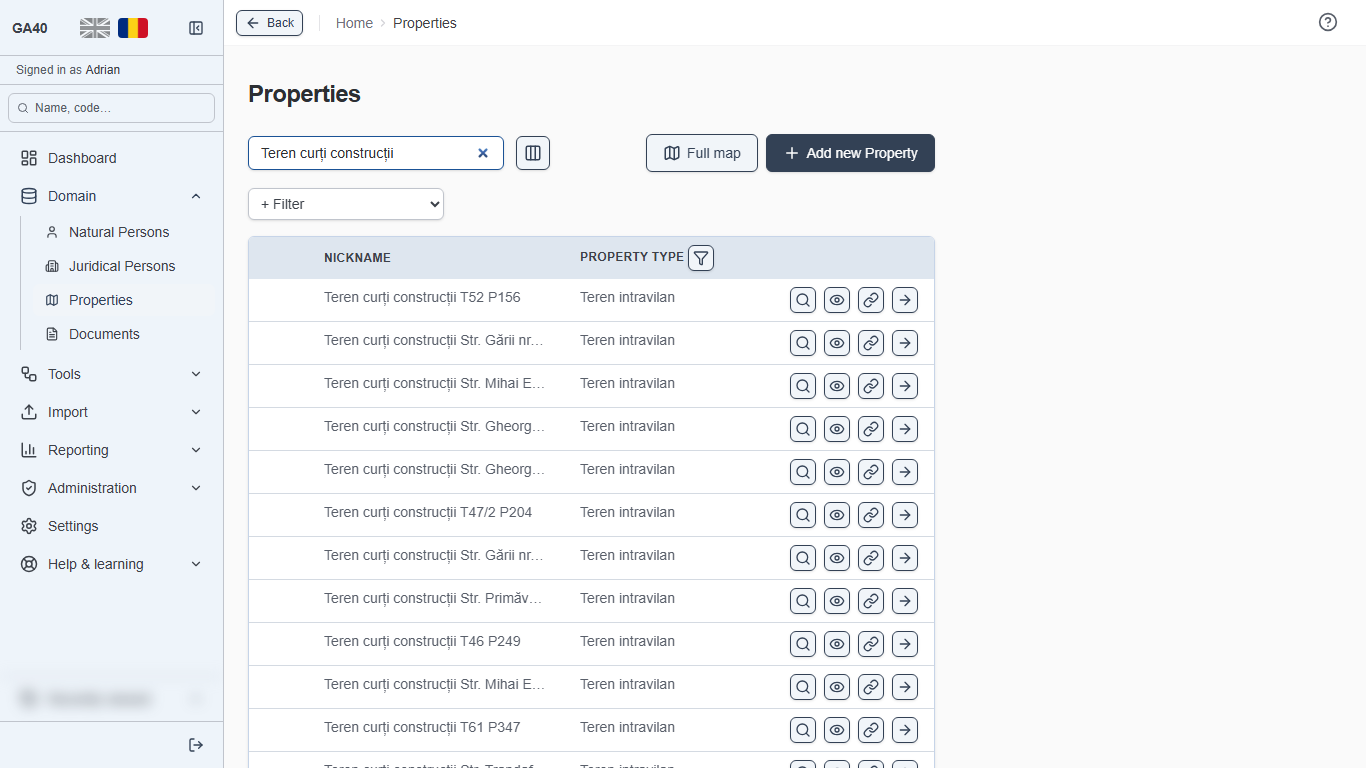
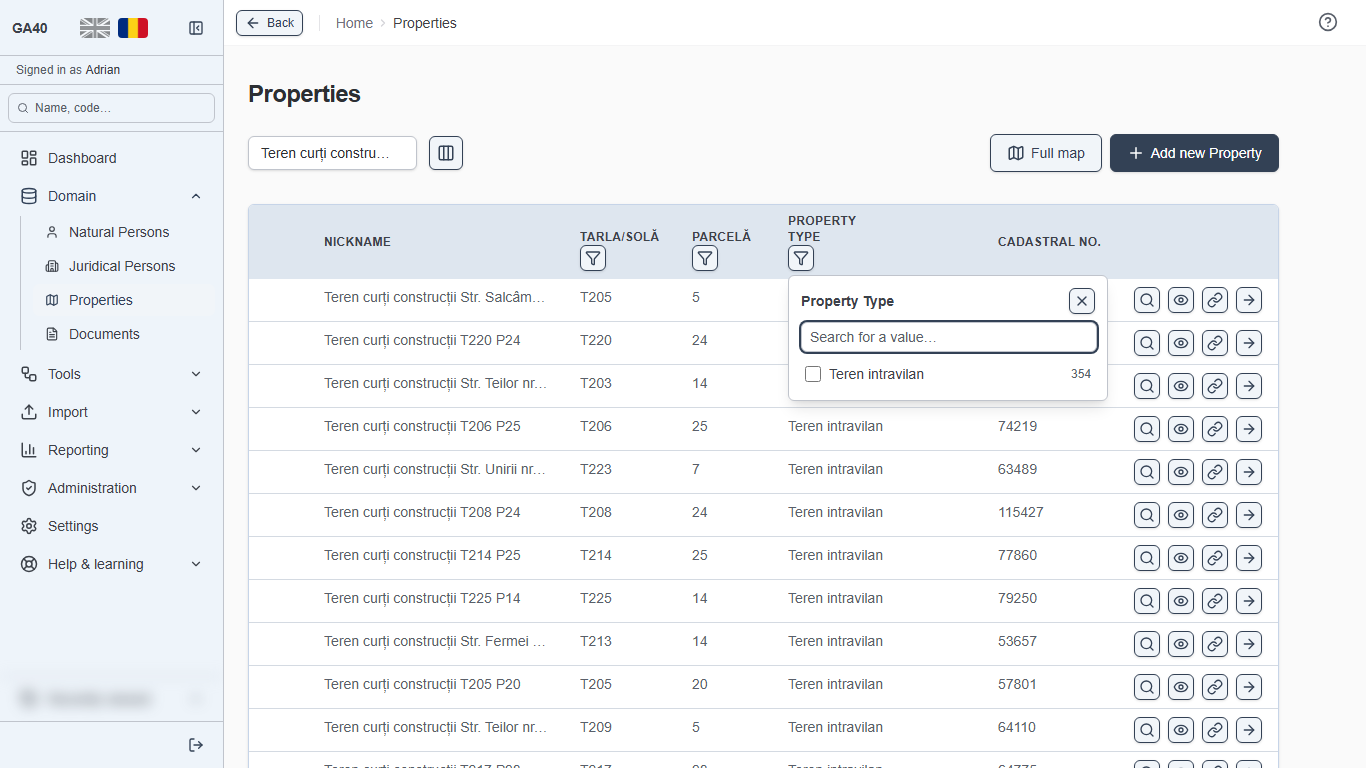
docs(manual): figures 2.3 and 5.1 re-shot, both languages; FU-352 resolved, FU-354 filed
2.3 (list.png) shows three columns with a funnel beside „Nume” and „Poreclă”,
which have none; 5.1 (properties-list.png) shows four columns and „Tip
proprietate”'s filter open under its funnel. Shot by the runner's
20261018T174833Z-13004 on the big dev seed's invented records; no real person's
data on either (checked), so nothing is redacted.

Claude-Session: https://claude.ai/code/session_018Uybd2u5X5GwVcDfkCz1eM

diff --git a/docs/claude/FOLLOW-UP-REGISTER.md b/docs/claude/FOLLOW-UP-REGISTER.md
@@ -12,17 +12,17 @@ are not repeated here either — `CATALOGUE_NOT_YET` in `src/lib/testing/catalog
 list, and one row below points at it.
 
 <!-- summary:begin -->
-As of 2026-10-18 — 353 entries (FU-353 filed, in #39.85). Rows are status, columns are impact.
+As of 2026-10-18 — 354 entries (FU-352 resolved, FU-354 filed, in #39.86). Rows are status, columns are impact.
 
 | Status | data | user | dev | cosmetic | Total |
 |---|---:|---:|---:|---:|---:|
-| open | 18 | 80 | 78 | 23 | 199 |
-| planned | 0 | 0 | 2 | 0 | 2 |
-| resolved | 38 | 60 | 31 | 3 | 132 |
+| open | 18 | 81 | 78 | 23 | 200 |
+| planned | 0 | 0 | 1 | 0 | 1 |
+| resolved | 38 | 60 | 32 | 3 | 133 |
 | ignored | 4 | 3 | 4 | 2 | 13 |
 | duplicate | 0 | 0 | 0 | 0 | 0 |
 | superseded | 0 | 6 | 1 | 0 | 7 |
-| **total** | 60 | 149 | 116 | 28 | 353 |
+| **total** | 60 | 150 | 116 | 28 | 354 |
 <!-- summary:end -->
 
 `src/__tests__/follow-up-register.test.ts` recounts the table and fails when this block disagrees
@@ -435,5 +435,6 @@ Nothing is filed from memory: every row carries evidence someone actually looked
 | FU-349 | 2026-10-18 #39.73 TC-MAP-07 | defect | Map | Unverified: once, the first press of „Selectează” after the big map loaded did not turn the mode on (the second did), with the browser pane hidden; not seen in the other run or reproduced. | docs/testing/cases/TC-MAP-07.md — Notes from the runs, run 2 | user | XS | open | Unverified: watch for it in TC-MAP-07's first runner run in November. | 2026-10-18 |
 | FU-350 | 2026-10-18 #39.73 a3e1aecd | recommendation | Properties | The Properties list's first column is still sized for a tick box and #39.24's 30 % gap, but has no box since its delete went; on most rows it is an empty strip before „Poreclă”. | src/app/properties/list-view.tsx — `listBadges` column, badges only; src/lib/ui/field-widths.ts listBadges | cosmetic | XS | open | Narrow `listBadges` on this list to the badges, or let Adrian say the strip stays. | 2026-10-18 |
 | FU-351 | 2026-10-18 #39.82 99169576 | debt | UI shell | No list uses the „choice" filter kind since #39.82 retired „Decedat": `ChoiceEditor` in the filter bar and the `choice` branch of the filter library are dead code, kept only because `filter-bar.test.ts` covers them. | src/components/list/filter-bar.tsx — ChoiceEditor; src/lib/list/filter-bar.ts — `choice` in readFilterState/encodeFilter | dev | XS | open | Drop the kind, its editor and its tests, or keep it for the next yes / no column. | 2026-10-18 |
-| FU-352 | 2026-10-18 #39.82 99169576 | copy/i18n | i18n | Message keys only the retired filters read are left in both languages because the manual quotes them: shared.filterBar.add/addOption („+ Filtru”), naturalPerson.filters.documentRole/locality/alive/deceased/all, judicialPerson.filters.documentRole/locality. | messages/ro-RO.json — shared.filterBar, naturalPerson.filters, judicialPerson.filters; src/lib/manual/content/ro-RO/03-persons.ts:48 | dev | XS | planned | 39.86 rewrites the manual's list sections and removes them with it. | 2026-10-18 |
+| FU-352 | 2026-10-18 #39.82 99169576 | copy/i18n | i18n | Message keys only the retired filters read are left in both languages because the manual quotes them: shared.filterBar.add/addOption („+ Filtru”), naturalPerson.filters.documentRole/locality/alive/deceased/all, judicialPerson.filters.documentRole/locality. | messages/ro-RO.json — shared.filterBar, naturalPerson.filters, judicialPerson.filters; src/lib/manual/content/ro-RO/03-persons.ts:48 | dev | XS | resolved | #39.86 f3ada7f0: the manual's list sections rewritten and the keys removed, both languages. | 2026-10-18 |
 | FU-353 | 2026-10-18 #39.85 20261018T171251Z-16897 | test gap | Tests & e2e | TC-ICON-01's hover over „Înapoi la listă” on a person's screen found no tooltip once, in a 22-spec run; the same spec alone passed at once on the same commit (20261018T171929Z-25013). | e2e/ui/icon-button.spec.ts:139 — `back.hover()` then `tooltip(page)` within 5 s | dev | XS | open | Unverified: watch it in the 2026-11-04 regression; if it recurs, wait for the tooltip's delay before reading it. | 2026-10-18 |
+| FU-354 | 2026-10-18 #39.85 Handover.39.85.md | recommendation | People | A natural person can no longer be found on the list by CNP: the list's search never read it, and since #39.82 the CNP is not a filter either (Adrian's list of 2026-10-18 does not name it). | src/lib/persons/queries.ts — naturalPersonSearchCondition; src/lib/persons/list-filters.ts — NATURAL_PERSON_FILTER_FIELDS | user | XS | open | Add `ilike(naturalPerson.cnp, …)` to the search and „CNP" to its explanation, if Adrian wants it. | 2026-10-18 |
